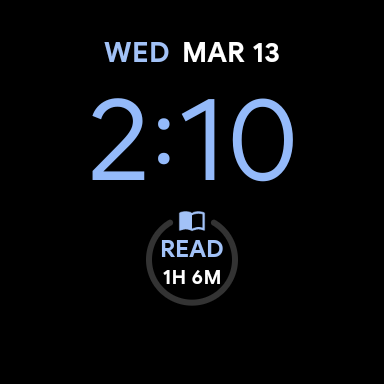
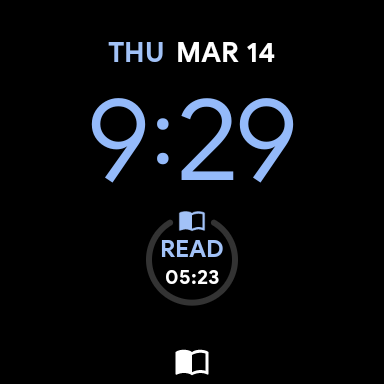
change wear complication text formatting

diff --git a/wear/src/main/java/com/example/util/simpletimetracker/complication/WearComplicationService.kt b/wear/src/main/java/com/example/util/simpletimetracker/complication/WearComplicationService.kt
@@ -102,8 +102,10 @@ class WearComplicationService : SuspendingComplicationDataSourceService() {
         onClick: PendingIntent?,
     ): ComplicationData {
         val text = if (startedAt != null) {
+            // SHORT_DUAL_UNIT seems better,
+            // but on samsung watch for example "1h 15m" is shown as just "2h"
             TimeDifferenceComplicationText.Builder(
-                TimeDifferenceStyle.SHORT_DUAL_UNIT,
+                TimeDifferenceStyle.STOPWATCH,
                 CountUpTimeReference(Instant.ofEpochMilli(startedAt)),
             ).build()
         } else {
